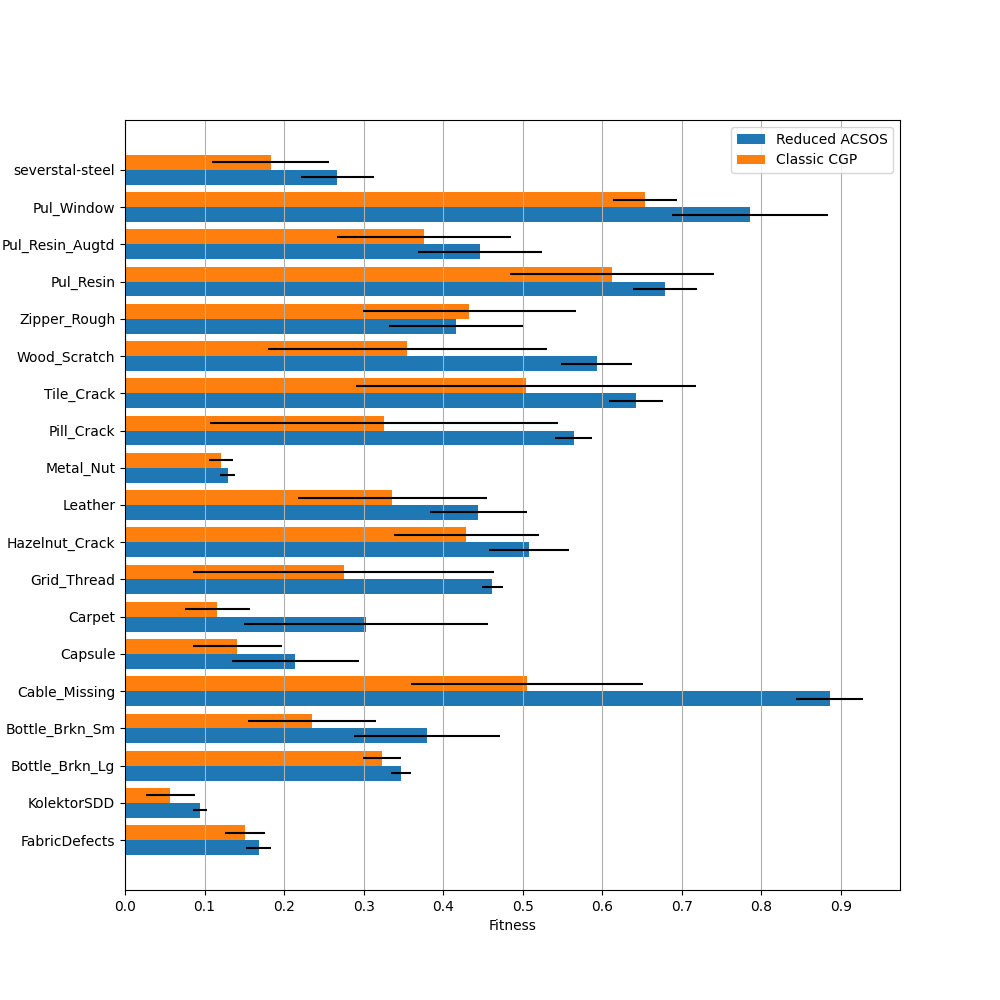
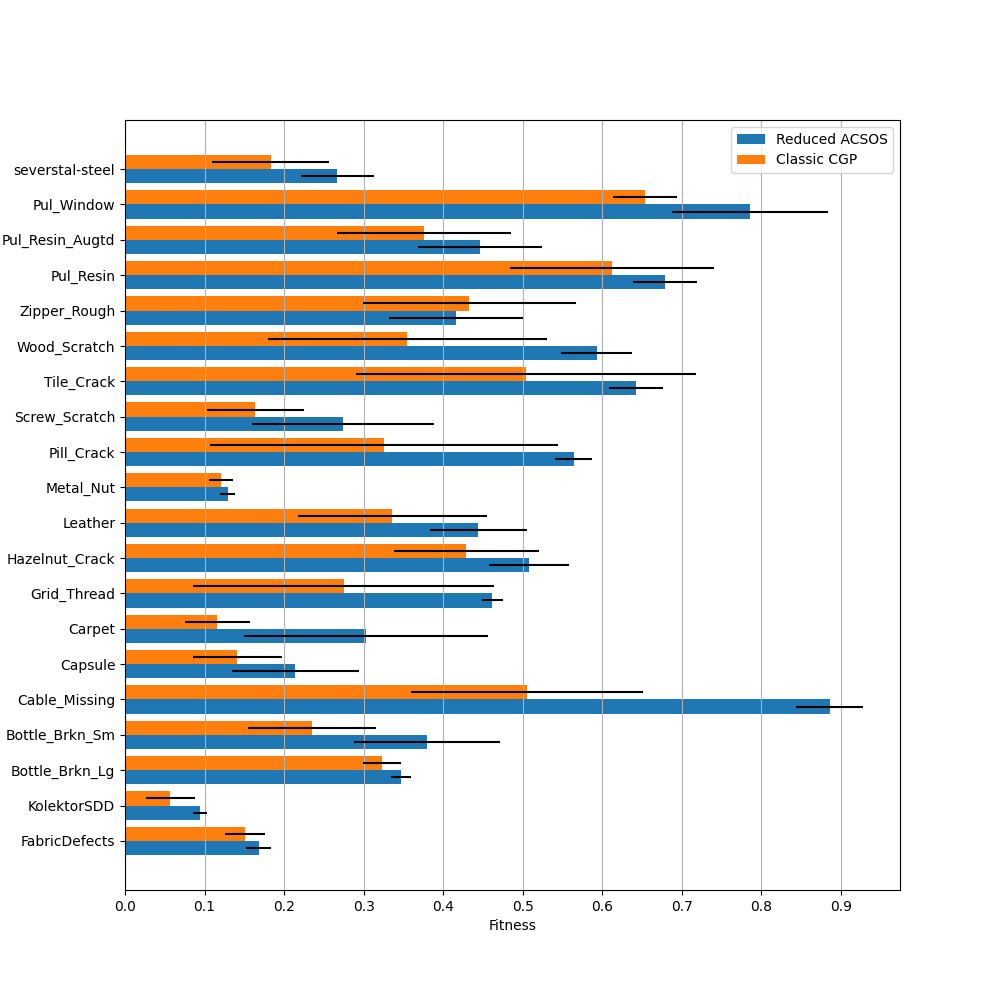
update classic cgp benchmark

Changed region(s): [[0.0, 0.155, 0.868, 0.837]]

diff --git a/main.py b/main.py
@@ -7,7 +7,7 @@ from dashboard.cgp_insights_plot import plot_cgp_insights
 from dashboard.create_analysis_plots import read_database_and_plot_fitness_per_dataset, read_database_and_show_plots, \
     generate_plots_from_json, compute_complexity_and_fitness_correlation, plot_missing_cgp_values
 from dashboard.dashboard import matplot_dashboard, hvplot_test
-from dashboard.disputation_plots import classic_vs_enhanced_rank_test
+from dashboard.disputation_plots import classic_vs_enhanced_rank_test, create_fitness_overlay_plot
 from dashboard.plotting import computations_per_computing_unit, plot_sample, plot_fitness_evolution, \
     fancy_mean_plot, entropy_fitness_plot, fitness_boxplots
 from param_tuning.run_param_tuning import run_param_tuning
@@ -45,106 +45,108 @@ def main() -> int:
     if not os.path.exists(report_path):
         os.makedirs(report_path, mode=777, exist_ok=True)
 
-    selection = show_program_menu()
+    while(True):
+        selection = show_program_menu()
 
-    if selection == 0:
-        return 0
+        if not (selection > 0 and selection < 12):
+            print("Exiting ...")
+            return 0
 
-    # yesno = input('Plot complexity and fitness? (y/n)')
-    if selection == 1 and SAMPLE_IMAGES_DIR_PATH != "":
-        """
-        Create complexity plots for image frames & labels 
-        and plot them as bar chart and scatterplot
-        """
-        compute_complexity_and_fitness_correlation(SAMPLE_IMAGES_DIR_PATH)
+        # yesno = input('Plot complexity and fitness? (y/n)')
+        if selection == 1 and SAMPLE_IMAGES_DIR_PATH != "":
+            """
+            Create complexity plots for image frames & labels 
+            and plot them as bar chart and scatterplot
+            """
+            compute_complexity_and_fitness_correlation(SAMPLE_IMAGES_DIR_PATH)
 
-    # yesno = input('Read DB and show plot with ALL FITNESS? (y/n)')
-    if selection == 2:
-        """
-        Plots 1 plot that contains all mean fitness & std dev values
-        from datasets between a minimum and maximum number of generations 
-        """
-        yesno = input('Show dataset names in plot? (y/n)')
-        read_database_and_plot_fitness_per_dataset(49, 500, show_names=(yesno == 'y'))
+        # yesno = input('Read DB and show plot with ALL FITNESS? (y/n)')
+        if selection == 2:
+            """
+            Plots 1 plot that contains all mean fitness & std dev values
+            from datasets between a minimum and maximum number of generations 
+            """
+            yesno = input('Show dataset names in plot? (y/n)')
+            read_database_and_plot_fitness_per_dataset(49, 500, show_names=(yesno == 'y'))
 
-    # yesno = input('read_database_and_show_plots? (y/n)')
-    if selection == 3:
-        """
-        Plots fitness evolution plot for every dataset
-        """
-        yesno = input('Show legend in plots? (y/n)')
-        read_database_and_show_plots(140, 500, grouped_dataset=True, show_legend=(yesno == 'y'))
+        # yesno = input('read_database_and_show_plots? (y/n)')
+        if selection == 3:
+            """
+            Plots fitness evolution plot for every dataset
+            """
+            yesno = input('Show legend in plots? (y/n)')
+            read_database_and_show_plots(140, 500, grouped_dataset=True, show_legend=(yesno == 'y'))
 
-    # yesno = input('Generate HTML reports? (y/n)')
-    if selection == 4:
-        """
-        Creates HTML file report/index.html
-        """
-        if SPECIFIC_SOURCE_PATH != "":
-            generate_plots_from_json(SPECIFIC_SOURCE_PATH, report_path)
-        else:
-            generate_plots_from_json(results_path, report_path)
+        # yesno = input('Generate HTML reports? (y/n)')
+        if selection == 4:
+            """
+            Creates HTML file report/index.html
+            """
+            if SPECIFIC_SOURCE_PATH != "":
+                generate_plots_from_json(SPECIFIC_SOURCE_PATH, report_path)
+            else:
+                generate_plots_from_json(results_path, report_path)
 
-    # yesno = input("Print Dashboard Plots (y/n):")
-    if selection == 5:
-        """
-        Show Fancy Dashboard Samples
-        """
-        matplot_dashboard()
-        hvplot_test()
-    # yesno = input("Print Sample Plots (y/n):")
-    if selection == 6:
-        """
-        Only Show Sample Plots
-        """
-        plot_sample()
-        plot_fitness_evolution()
-        fancy_mean_plot()
-        entropy_fitness_plot()
-        fitness_boxplots()
-        computations_per_computing_unit()
+        # yesno = input("Print Dashboard Plots (y/n):")
+        if selection == 5:
+            """
+            Show Fancy Dashboard Samples
+            """
+            matplot_dashboard()
+            hvplot_test()
+        # yesno = input("Print Sample Plots (y/n):")
+        if selection == 6:
+            """
+            Only Show Sample Plots
+            """
+            plot_sample()
+            plot_fitness_evolution()
+            fancy_mean_plot()
+            entropy_fitness_plot()
+            fitness_boxplots()
+            computations_per_computing_unit()
 
-    if selection == 7:
-        """
-        Creates Fitness plot from ACSOS publication
-        with mean / std dev MCC per datatset (over all related runs/experiments).
-        
-        Secondly, function creates a complexity plot showing complexity vs. fitness per dataset.
-        """
-        create_fitness_plot()
-        create_acsos_complexity_plot()
+        if selection == 7:
+            """
+            Creates Fitness plot from ACSOS publication
+            with mean / std dev MCC per datatset (over all related runs/experiments).
+            
+            Secondly, function creates a complexity plot showing complexity vs. fitness per dataset.
+            """
+            create_fitness_plot()
+            create_acsos_complexity_plot()
 
-    if selection == 8:
-        """
-        Get pipelines (digraphs) closest to mean MCC per dataset, 
-        extract the pipeline, convert it to HDEV code.
-        Then apply Simulated Annealing / Local Search to tune the real valued parameters. 
-        """
-        # read_database_and_plot_fitness_per_dataset(140, 500, show_names=True, create_plot=False)
-        run_param_tuning()
+        if selection == 8:
+            """
+            Get pipelines (digraphs) closest to mean MCC per dataset, 
+            extract the pipeline, convert it to HDEV code.
+            Then apply Simulated Annealing / Local Search to tune the real valued parameters. 
+            """
+            # read_database_and_plot_fitness_per_dataset(140, 500, show_names=True, create_plot=False)
+            run_param_tuning()
 
-    if selection == 9:
-        """
-        Plots fitness evolution for transistor and crackforest
-        """
-        #read_database_and_show_plots(48, 51, grouped_dataset=True, show_legend=(yesno == 'y'))
-        plot_missing_cgp_values()
+        if selection == 9:
+            """
+            Plots fitness evolution for transistor and crackforest
+            """
+            #read_database_and_show_plots(48, 51, grouped_dataset=True, show_legend=(yesno == 'y'))
+            plot_missing_cgp_values()
 
-    if selection == 10:
-        """
-        Read data from test\cgp_insights and plot results
-        in separate charts for teaching/visualization
-        """
-        plot_cgp_insights()
+        if selection == 10:
+            """
+            Read data from test\cgp_insights and plot results
+            in separate charts for teaching/visualization
+            """
+            plot_cgp_insights()
 
-    if selection == 11:
-        """
-        Creates Fitness plots from comparing ACSOS CGP-IP values
-        to values from Classic CGP dep graph
-        on a selected, but smaller number of datasets
-        """
-        #create_fitness_overlay_plot()
-        classic_vs_enhanced_rank_test()
+        if selection == 11:
+            """
+            Creates Fitness plots from comparing ACSOS CGP-IP values
+            to values from Classic CGP dep graph
+            on a selected, but smaller number of datasets
+            """
+            create_fitness_overlay_plot()
+            classic_vs_enhanced_rank_test()
 
 
 if __name__ == '__main__':

diff --git a/dashboard/classic_cgp_vars.py b/dashboard/classic_cgp_vars.py
@@ -14,6 +14,7 @@ CLASSIC_CGP_DATASET_NAMES = [
     "MVTec_D_Leather",
     "MVTec_AD_Metal_Nut",
     "MVTec_AD_Pill_Crack",
+    "MVTec_AD_Screw_Scratch",
     "MVTec_AD_Tile_Crack",
     "MVTec_AD_Wood_Scratch",
     "MVTec_AD_Zipper_Rough",
@@ -25,12 +26,12 @@ CLASSIC_CGP_DATASET_NAMES = [
 
 CLASSIC_CGP_MEANS = [
     0.151, 0.057, 0.323, 0.235, 0.505, 0.141, 0.116, 0.275, 0.429,
-    0.336, 0.121, 0.326, 0.504, 0.355, 0.433, 0.612, 0.376, 0.654, 0.183
+    0.336, 0.121, 0.326, 0.164, 0.504, 0.355, 0.433, 0.612, 0.376, 0.654, 0.183
 ]
 
 CLASSIC_CGP_STD_DEV = [
     0.025, 0.031, 0.024, 0.080, 0.146, 0.056, 0.041, 0.189, 0.091,
-    0.119, 0.015, 0.219, 0.214, 0.175, 0.134, 0.128, 0.109, 0.040, 0.073
+    0.119, 0.015, 0.219, 0.061, 0.214, 0.175, 0.134, 0.128, 0.109, 0.040, 0.073
 ]
 
 # Mapping from CLASSIC dataset names to ACSOS equivalents
@@ -47,6 +48,7 @@ ACSOS_CLASSIC_MAP = {
     "MVTec_D_Leather": "Leather",
     "MVTec_AD_Metal_Nut": "Metal_Nut",
     "MVTec_AD_Pill_Crack": "Pill_Crack",
+    "MVTec_AD_Screw_Scratch": "Screw_Scratch",
     "MVTec_AD_Tile_Crack": "Tile_Crack",
     "MVTec_AD_Wood_Scratch": "Wood_Scratch",
     "MVTec_AD_Zipper_Rough": "Zipper_Rough",
@@ -74,6 +76,7 @@ def get_harmonized_values():
         raise ValueError("Mismatch in dataset lengths after harmonization.")
 
     return reduced_acsos_mean, reduced_acsos_std_dev, reduced_acsos_dataset_names
+
 
 def get_acsos_values(classic_name):
     """

diff --git a/README.md b/README.md
@@ -361,8 +361,8 @@ A statistical evaluation using a Wilcoxon signed-rank test was performed to comp
 
 Wilcoxon signed-rank test results:
 * Statistic: 2.5
-* P-value: 1.9073486328125e-05
-* Cliff’s Delta effect size: 0.319
+* P-value: 9.5367431640625e-06
+* Cliff’s Delta effect size: 0.315
 
 **Conclusion:** 
 
@@ -372,25 +372,26 @@ _The p-value is less than 0.05, indicating a statistically significant differenc
 
 | ID | Dataset                     | Mean  | Std Dev | # Runs | # Imgs |
 |----|-----------------------------|-------|---------|--------|--------|
-| 0  | FabricDefectsAITEX          | 0.151 | 0.025   | 10     | 20     |
-| 1  | KolektorSDD                 | 0.057 | 0.031   | 10     | 8      |
-| 2  | MVTec_AD_Bottle_Broken_Lg   | 0.323 | 0.024   | 10     | 10     |
-| 3  | MVTec_AD_Bottle_Broken_Sm   | 0.235 | 0.080   | 10     | 11     |
-| 4  | MVTec_AD_Cable_Missing      | 0.505 | 0.146   | 10     | 6      |
-| 5  | MVTec_AD_Capsule            | 0.141 | 0.056   | 10     | 10     |
-| 6  | MVTec_AD_Carpet             | 0.116 | 0.041   | 10     | 10     |
-| 7  | MVTec_AD_Grid_Thread        | 0.275 | 0.189   | 10     | 5      |
-| 8  | MVTec_AD_Hazelnut_Crack     | 0.429 | 0.091   | 10     | 9      |
-| 9  | MVTec_D_Leather             | 0.336 | 0.119   | 10     | 10     |
-| 10 | MVTec_AD_Metal_Nut          | 0.121 | 0.015   | 10     | 11     |
-| 11 | MVTec_AD_Pill_Crack         | 0.326 | 0.219   | 10     | 13     |
-| 12 | MVTec_AD_Tile_Crack         | 0.504 | 0.214   | 10     | 8      |
-| 13 | MVTec_AD_Wood_Scratch       | 0.355 | 0.175   | 10     | 9      |
-| 14 | MVTec_AD_Zipper_Rough       | 0.433 | 0.134   | 10     | 8      |
-| 15 | Pultrusion_Resin            | 0.612 | 0.128   | 10     | 20     |
-| 16 | Pultrusion_Resin_Augmtd     | 0.376 | 0.109   | 10     | 20     |
-| 17 | Pultrusion_Window           | 0.654 | 0.040   | 10     | 20     |
-| 18 | severstal-steel             | 0.183 | 0.073   | 10     | 15     |
+| 1  | KolektorSDD  | 0.057 | 0.031 | 10 | 8 |
+| 2  | MVTec_AD_Bottle_Broken_Lg  | 0.323 | 0.024 | 10 | 10 |
+| 3  | MVTec_AD_Bottle_Broken_Sm  | 0.235 | 0.08 | 10 | 11 |
+| 4  | MVTec_AD_Cable_Missing  | 0.505 | 0.146 | 10 | 6 |
+| 5  | MVTec_AD_Capsule  | 0.141 | 0.056 | 10 | 10 |
+| 6  | MVTec_AD_Carpet  | 0.116 | 0.041 | 10 | 10 |
+| 7  | MVTec_AD_Grid_Thread  | 0.275 | 0.189 | 10 | 5 |
+| 8  | MVTec_AD_Hazelnut_Crack  | 0.42 | 0.089 | 20 | 9 |
+| 9  | MVTec_D_Leather  | 0.336 | 0.119 | 10 | 10 |
+| 10 | MVTec_AD_Metal_Nut  | 0.121 | 0.015 | 10 | 11 |
+| 11 | MVTec_AD_Pill_Crack  | 0.326 | 0.219 | 10 | 13 |
+| 12 | MVTec_AD_Screw_Scratch  | 0.164 | 0.061 | 10 | 12 |
+| 13 | MVTec_AD_Tile_Crack  | 0.504 | 0.214 | 10 | 8 |
+| 14 | MVTec_AD_Wood_Scratch  | 0.355 | 0.175 | 10 | 9 |
+| 15 | MVTec_AD_Zipper_Rough  | 0.433 | 0.134 | 10 | 8 |
+| 16 | Pultrusion_Resin  | 0.612 | 0.128 | 10 | 20 |
+| 17 | Pultrusion_Resin_Augmtd  | 0.376 | 0.109 | 10 | 20 |
+| 18 | Pultrusion_Window  | 0.654 | 0.04 | 10 | 20 |
+| 19 | severstal-steel  | 0.183 | 0.073 | 10 | 15 |
+| 20 | FabricDefectsAITEX  | 0.151 | 0.025 | 10 | 20 |
 
 * Using an open graph with dependencies that allow for failing pipelines
 * Dot graph Definition:
